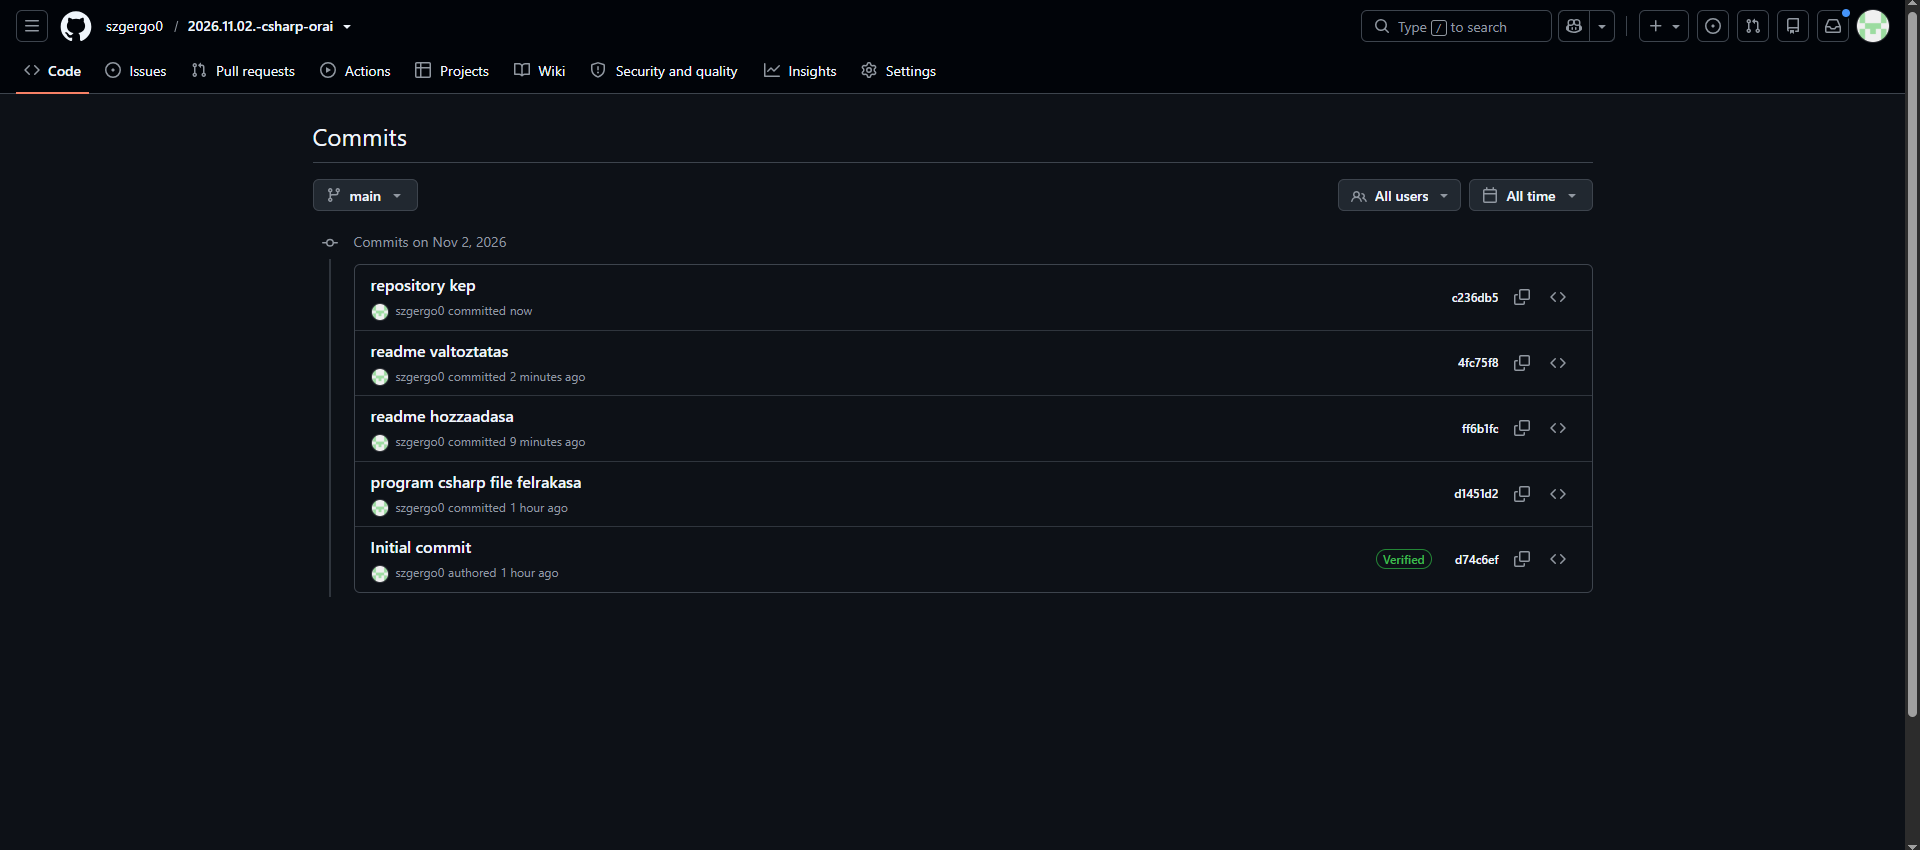
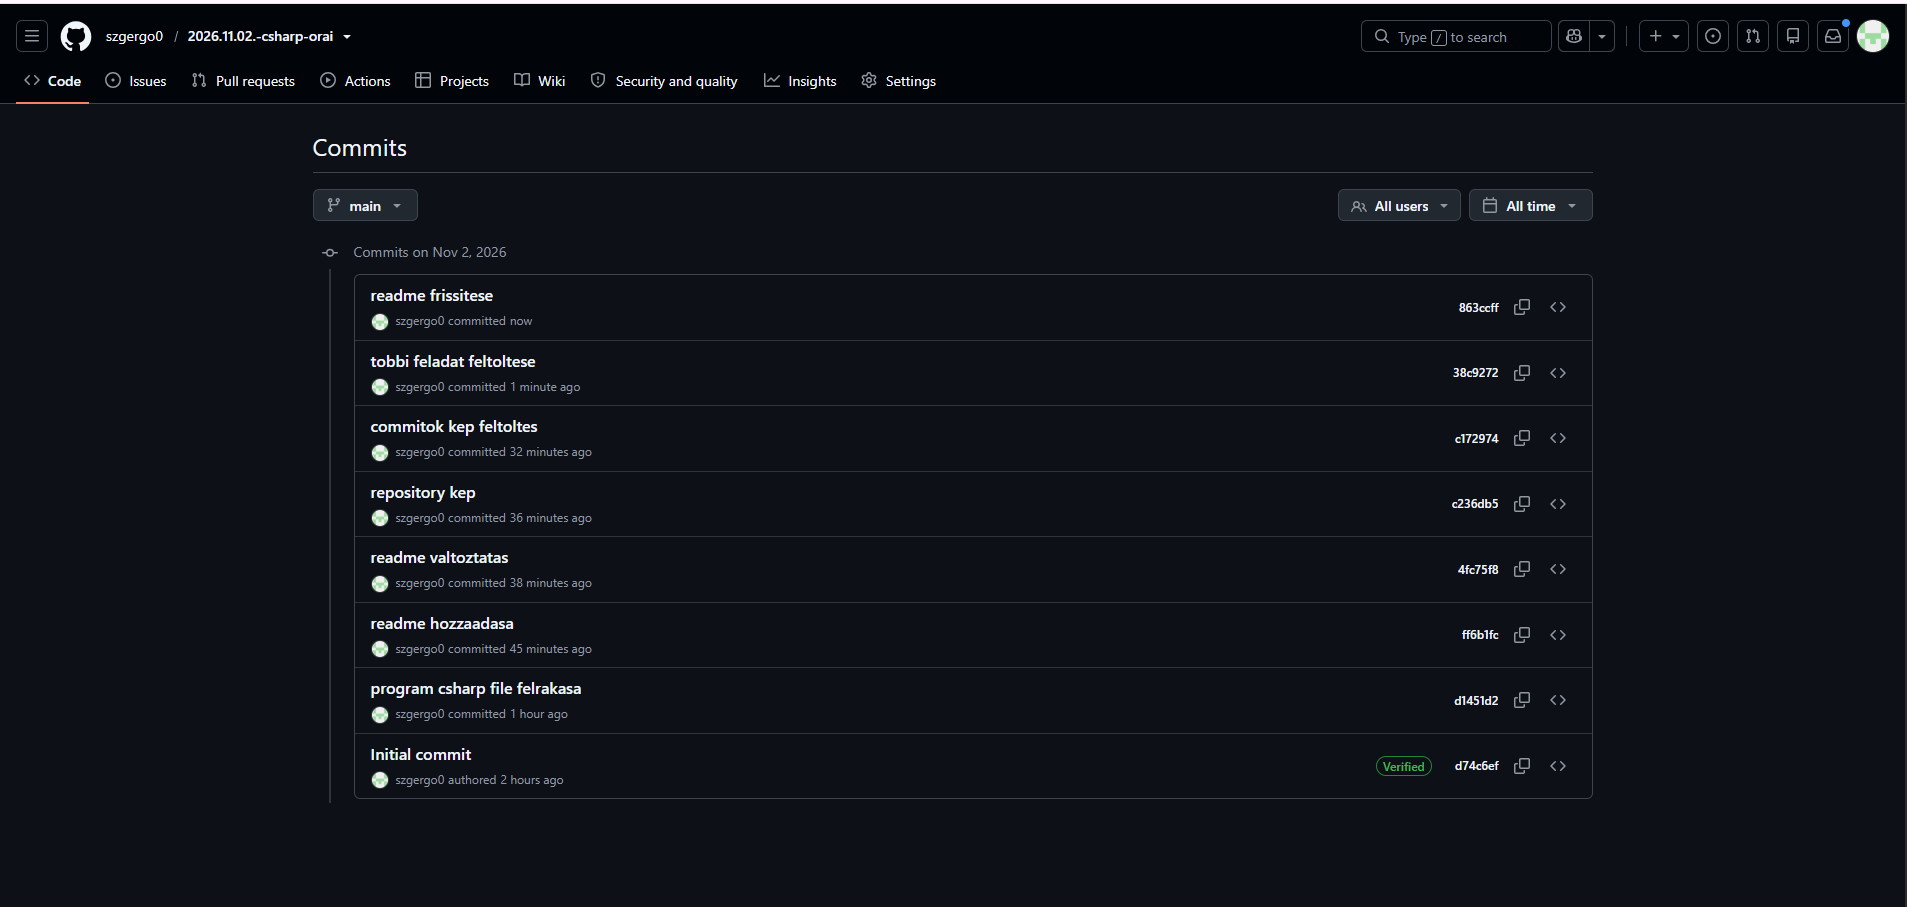
readme és program file frissitese a maradek feladattal

diff --git a/Program.cs b/Program.cs
@@ -11,12 +11,12 @@
 ////2
 //int fibo(int n)
 //{
-//    if (n == 0) 
+//    if (n == 0)
 //    {
 //        return 0;
 //    }
 //    if (n <= 2)
-//    { 
+//    {
 //        return 1;
 //    }
 
@@ -26,67 +26,85 @@
 
 
 
-// 6
-int jelszo_erosseg(string jelszo)
-{
-    int erosseg = 1;
-    if (jelszo.Length >= 5)
-    {
-        erosseg += 1;
-    }
-    if (jelszo.Length >= 8)
-    {
-        erosseg += 2;
-    }
-    foreach (char a in jelszo)
-    {
-        if (a== '-')
-        {
-            erosseg += 2;
-        }
-        if (a == '_')
-        {
-            erosseg += 2;
-        }
-        if (a == '.')
-        {
-            erosseg += 2;
-        }
+//// 6
+//int jelszo_erosseg(string jelszo)
+//{
+//    int erosseg = 1;
+//    if (jelszo.Length >= 5)
+//    {
+//        erosseg += 1;
+//    }
+//    if (jelszo.Length >= 8)
+//    {
+//        erosseg += 2;
+//    }
+//    foreach (char a in jelszo)
+//    {
+//        if (a == '-')
+//        {
+//            erosseg += 2;
+//        }
+//        if (a == '_')
+//        {
+//            erosseg += 2;
+//        }
+//        if (a == '.')
+//        {
+//            erosseg += 2;
+//        }
 
-    }
-    if (jelszo.Contains("123"))
-    {
-        erosseg = 0;
-    }
-    if (jelszo.Contains("jelszo"))
-    {
-        erosseg = 0;
-    }
-    if (jelszo.Length == 0)
-    {
-        erosseg = 0;
-    }
-    return erosseg;
-}
-Console.WriteLine(jelszo_erosseg("hazi_macska_4_life"));
+//    }
+//    if (jelszo.Contains("123"))
+//    {
+//        erosseg = 0;
+//    }
+//    if (jelszo.Contains("jelszo"))
+//    {
+//        erosseg = 0;
+//    }
+//    if (jelszo.Length == 0)
+//    {
+//        erosseg = 0;
+//    }
+//    return erosseg;
+//}
+//Console.WriteLine(jelszo_erosseg("hazi_macska_4_life"));
 
 
-//7
+////7
 
-string maganhangzot_torol(string szoveg)
-{
-    string maganhangzok = "aeiou";
-    string rendesszov = "";
-    foreach (char a in szoveg)
-    {
-        if (maganhangzok.Contains(char.ToLower(a)))
-        {
-            continue;
-        }
-        else {
-            rendesszov += a;
-        }
-    }
-    return rendesszov;
-}
-Console.WriteLine(maganhangzot_torol("Iden Java szigeten voltunk nyaralni. Nem is tudtam, hogy elneveztek egy helyet egy programozasi nyelvrol."));
+//string maganhangzot_torol(string szoveg)
+//{
+//    string maganhangzok = "aeiou";
+//    string rendesszov = "";
+//    foreach (char a in szoveg)
+//    {
+//        if (maganhangzok.Contains(char.ToLower(a)))
+//        {
+//            continue;
+//        }
+//        else
+//        {
+//            rendesszov += a;
+//        }
+//    }
+//    return rendesszov;
+//}
+//Console.WriteLine(maganhangzot_torol("Iden Java szigeten voltunk nyaralni. Nem is tudtam, hogy elneveztek egy helyet egy programozasi nyelvrol."));
+
+//8 szoveg titkositas
+
+//string kodol(string uzenet, int n, char c)
+//{
+//    string kimenet = "";
+//    foreach (char i in uzenet)
+//    {
+//        kimenet += i;
+//        for (int h=1; h<=n; h++)
+//        {
+//            kimenet += c;
+//        }
+//    }
+//    return kimenet;
+//}
+//Console.WriteLine(kodol("Pizza delben?", 3, 'x'));

diff --git a/README.md b/README.md
@@ -93,6 +93,21 @@ string maganhangzot_torol(string szoveg)
 }
 Console.WriteLine(maganhangzot_torol("Iden Java szigeten voltunk nyaralni. Nem is tudtam, hogy elneveztek egy helyet egy programozasi nyelvrol."));
 
+//8 szoveg titkositas
 
+string kodol(string uzenet, int n, char c)
+{
+   string kimenet = "";
+   foreach (char i in uzenet)
+   {
+       kimenet += i;
+       for (int h=1; h<=n; h++)
+       {
+           kimenet += c;
+       }
+   }
+   return kimenet;
+}
+Console.WriteLine(kodol("Pizza delben?", 3, 'x'));
 
 ```
